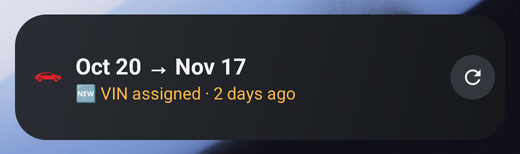
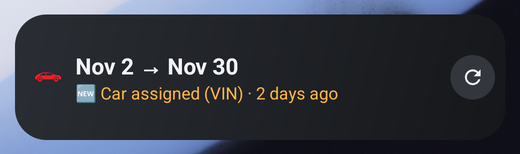
Clearer widget: progress segments, plain-words labels, light/dark theme
- Progress line is four segments (done / current / to come) plus the
  current step in words ("Step 3/4 · Waiting for the appointment").
- "What's new" banner without jargon ("Car assigned (VIN)") and with the
  new value when the title alone says too little.
- Widget follows the phone's light/dark theme (colors in values/ and
  values-night/, text colors set from code carry both variants).
- Demo: "state" and "news" extras to reach each widget state.
- Refreshed widget screenshots, changelog entry for 0.0.6.

Changed region(s): [[0.1846, 0.5455, 0.6769, 0.6753], [0.1231, 0.3636, 0.4923, 0.4935]]

diff --git a/app/src/main/java/app/deliveryday/OrderWidget.kt b/app/src/main/java/app/deliveryday/OrderWidget.kt
@@ -6,15 +6,12 @@ import android.appwidget.AppWidgetProvider
 import android.content.ComponentName
 import android.content.Context
 import android.content.Intent
-import android.graphics.Typeface
+import android.content.res.Configuration
 import android.os.Build
 import android.os.Bundle
 import android.util.SizeF
-import android.text.SpannableStringBuilder
-import android.text.Spanned
-import android.text.style.ForegroundColorSpan
-import android.text.style.StyleSpan
 import android.widget.RemoteViews
+import androidx.annotation.ColorRes
 import androidx.work.ExistingWorkPolicy
 import androidx.work.OneTimeWorkRequestBuilder
 import androidx.work.OutOfQuotaPolicy
@@ -83,25 +80,45 @@ class OrderWidget : AppWidgetProvider() {
             }
         }
 
-        /** "✓ Ordered › Car assigned › Appt. › Delivered": done in green, current step in bold white. */
-        private fun steps(ctx: Context, o: OrderInfo): CharSequence {
-            val labels = listOf(R.string.step_ordered, R.string.step_assigned, R.string.step_appointment_short, R.string.step_delivered)
+        private val SEGMENTS = intArrayOf(R.id.w_seg1, R.id.w_seg2, R.id.w_seg3, R.id.w_seg4)
+
+        /** Four segments (done in green, current in amber, to come in grey) and "Step 2/4 · Car assigned". */
+        private fun steps(ctx: Context, v: RemoteViews, o: OrderInfo) {
+            // What the current step means: what we wait for, or what we have.
+            val labels = listOf(R.string.step_ordered, R.string.w_wait_assigned, R.string.w_wait_appointment, R.string.w_wait_delivery)
             val done = simpleSteps(o)
             val current = done.indexOfFirst { !it }
-            val sb = SpannableStringBuilder()
-            labels.forEachIndexed { i, id ->
-                if (i > 0) sb.append(" › ")
-                val start = sb.length
-                sb.append(if (done[i]) "✓ ${ctx.getString(id)}" else ctx.getString(id))
-                val color = when {
-                    done[i] -> ctx.getColor(R.color.green)
-                    i == current -> ctx.getColor(R.color.text)
-                    else -> ctx.getColor(R.color.muted)
-                }
-                sb.setSpan(ForegroundColorSpan(color), start, sb.length, Spanned.SPAN_EXCLUSIVE_EXCLUSIVE)
-                if (i == current) sb.setSpan(StyleSpan(Typeface.BOLD), start, sb.length, Spanned.SPAN_EXCLUSIVE_EXCLUSIVE)
+            SEGMENTS.forEachIndexed { i, id ->
+                v.setInt(id, "setBackgroundResource", when {
+                    done[i] -> R.drawable.widget_seg_done
+                    i == current -> R.drawable.widget_seg_current
+                    else -> R.drawable.widget_seg_todo
+                })
             }
-            return sb
+            if (current < 0) {
+                v.setTextViewText(R.id.w_steps, "✓ ${ctx.getString(R.string.step_delivered)}")
+                setTextColor(ctx, v, R.id.w_steps, R.color.green)
+            } else {
+                v.setTextViewText(R.id.w_steps, ctx.getString(R.string.w_step, current + 1, labels.size, ctx.getString(labels[current])))
+                setTextColor(ctx, v, R.id.w_steps, R.color.text)
+            }
+        }
+
+        /**
+         * Text color that follows the phone's light/dark theme. Layouts and drawables do it by
+         * themselves; a color set from here would stay as is when the theme changes (Android 12+
+         * takes both and the launcher picks).
+         */
+        private fun setTextColor(ctx: Context, v: RemoteViews, id: Int, @ColorRes res: Int) {
+            if (Build.VERSION.SDK_INT >= 31) v.setColorInt(id, "setTextColor", color(ctx, res, night = false), color(ctx, res, night = true))
+            else v.setTextColor(id, ctx.getColor(res))
+        }
+
+        private fun color(ctx: Context, @ColorRes res: Int, night: Boolean): Int {
+            val config = Configuration(ctx.resources.configuration)
+            config.uiMode = (config.uiMode and Configuration.UI_MODE_NIGHT_MASK.inv()) or
+                if (night) Configuration.UI_MODE_NIGHT_YES else Configuration.UI_MODE_NIGHT_NO
+            return ctx.createConfigurationContext(config).getColor(res)
         }
 
         private fun build(ctx: Context, refreshing: Boolean, small: Boolean): RemoteViews {
@@ -128,6 +145,7 @@ class OrderWidget : AppWidgetProvider() {
                     v.setTextViewText(R.id.w_model, ctx.getString(R.string.app_name))
                     v.setTextViewText(R.id.w_news, "")
                     v.setTextViewText(R.id.w_steps, "")
+                    SEGMENTS.forEach { v.setInt(it, "setBackgroundResource", R.drawable.widget_seg_todo) }
                 }
             } else if (small) {
                 v.setTextViewText(R.id.w_window,
@@ -149,15 +167,15 @@ class OrderWidget : AppWidgetProvider() {
                 if (freshNews != null) {
                     v.setTextViewText(R.id.w_news, freshNews)
                     v.setInt(R.id.w_news, "setBackgroundResource", R.drawable.widget_news_fresh)
-                    v.setTextColor(R.id.w_news, ctx.getColor(R.color.text))
+                    setTextColor(ctx, v, R.id.w_news, R.color.text)
                 } else {
                     val since = newsDay ?: o.orderedOn
                     v.setTextViewText(R.id.w_news, since?.let { ctx.getString(R.string.w_nothing_since, Fmt.dayMonth(it)) } ?: ctx.getString(R.string.news_none))
                     v.setInt(R.id.w_news, "setBackgroundResource", R.drawable.widget_news_quiet)
-                    v.setTextColor(R.id.w_news, ctx.getColor(R.color.muted))
+                    setTextColor(ctx, v, R.id.w_news, R.color.muted)
                 }
                 // Where are we?
-                v.setTextViewText(R.id.w_steps, steps(ctx, o))
+                steps(ctx, v, o)
             }
             val open = PendingIntent.getActivity(ctx, 0, Intent(ctx, MainActivity::class.java), PendingIntent.FLAG_IMMUTABLE)
             v.setOnClickPendingIntent(R.id.widget_root, open)

diff --git a/app/src/debug/java/app/deliveryday/DemoActivity.kt b/app/src/debug/java/app/deliveryday/DemoActivity.kt
@@ -53,7 +53,13 @@ class DemoActivity : Activity() {
         val order = JSONObject().put("referenceNumber", "RN-DEMO-0001").put("orderStatus", "BOOKED")
             .put("modelCode", "my").put("countryCode", "FR").put("vin", "DEMO-VIN-12345678")
             .put("mktOptions", "APBS,IBB6,PPSB,SC04,MDLY,WY19P,MTY85,STY5B,CPF0,TW01")
-        val snapshot = JSONObject().put("RN-DEMO-0001", JSONObject().put("order", order)
+        // "state=assigned|appointment|delivered" picks the step reached (default: car assigned, no appointment yet).
+        val state = intent.getStringExtra("state")
+        if (state == "assigned") order.remove("vin")
+        if (state == "appointment" || state == "delivered")
+            tasks.getJSONObject("scheduling").put("isValidAppointment", true)
+        if (state == "delivered") order.put("orderStatus", "DELIVERED")
+        val snapshot = JSONObject().put("RN-DEMO-0001",JSONObject().put("order", order)
             .put("tasks", JSONObject().put("tasks", tasks)).put("lang", Locale.getDefault().language))
 
         Store(this).apply {
@@ -64,7 +70,16 @@ class DemoActivity : Activity() {
             lastCheck = now - 12 * 60_000
             tradeInEstimate = 8500.0
             tradeInBaseline = 41990.0
-            lastNews = getString(R.string.ch_vin_assigned)
+            // Banner computed like a real check would; "news=window" for a delivery window change.
+            val earlier = JSONObject(snapshot.toString())
+            val earlierOrder = earlier.getJSONObject("RN-DEMO-0001")
+            if (intent.getStringExtra("news") == "window")
+                earlierOrder.getJSONObject("tasks").getJSONObject("tasks").getJSONObject("scheduling")
+                    .put("deliveryWindowDisplay", "${today.plusDays(28).format(windowFormat)} - ${today.plusDays(55).format(windowFormat)}"
+                        .replaceFirstChar(Char::titlecase))
+            else earlierOrder.getJSONObject("order").remove("vin")
+            lastNews = Changes.summarize(earlier.toString(), snapshot.toString())
+                .takeIf { it.changes.isNotEmpty() }?.let { ChangeText.headline(this@DemoActivity, it) }
             lastNewsAt = now - 2 * day
             addHistory(listOf(getString(R.string.task_financing) to getString(R.string.ch_task_done)), now - 20 * day)
             addHistory(listOf(getString(R.string.ch_window) to (if (fr) "5 nov. – 2 déc. → " else "Nov 5 – Dec 2 → ") +

diff --git a/app/src/main/java/app/deliveryday/Changes.kt b/app/src/main/java/app/deliveryday/Changes.kt
@@ -126,9 +126,30 @@ object ChangeText {
         if (s.important == 1) listOf(detail(ctx, s.changes[0]))
         else s.changes.map { ctx.getString(R.string.ch_line, titleWithEmoji(ctx, it), detail(ctx, it)) }
 
-    /** Short version for the widget banner: "VIN assigned", "VIN assigned + 2 more". */
+    /**
+     * Plain-words title for the widget banner: no "VIN" jargon, and the new value when the title
+     * alone says too little ("Delivery window: Nov 5 – Dec 2"). The detail is only worth the room
+     * when the change is alone.
+     */
+    private fun headlineTitle(ctx: Context, c: Changes.Change, withDetail: Boolean): String {
+        val n = c.after
+        return when (c.kind) {
+            Changes.Kind.VIN_ASSIGNED -> ctx.getString(R.string.wh_car_assigned)
+            Changes.Kind.VIN_CHANGED -> ctx.getString(R.string.wh_car_changed)
+            else -> if (!withDetail) title(ctx, c) else when (c.kind) {
+                Changes.Kind.STATUS -> ctx.getString(R.string.wh_status, Labels.status(ctx, n.statusCode))
+                Changes.Kind.WINDOW -> ctx.getString(R.string.wh_window)
+                Changes.Kind.PLACE -> ctx.getString(R.string.wh_place, n.deliveryPlace ?: "—")
+                Changes.Kind.TRADE_IN_STATUS -> ctx.getString(R.string.wh_trade_in, Labels.tradeInStatus(ctx, n.tradeInStatusCode))
+                Changes.Kind.TASK_DONE, Changes.Kind.TASK_TODO -> ctx.getString(R.string.ch_line, title(ctx, c), detail(ctx, c))
+                else -> title(ctx, c)
+            }
+        }
+    }
+
+    /** Short version for the widget banner: "Car assigned", "Car assigned + 2 more". */
     fun headline(ctx: Context, s: Changes.Summary): String {
-        val first = title(ctx, s.changes[0])
+        val first = headlineTitle(ctx, s.changes[0], withDetail = s.important == 1)
         return if (s.important == 1) first
         else ctx.resources.getQuantityString(R.plurals.headline_more, s.important - 1, first, s.important - 1)
     }

diff --git a/CHANGELOG.md b/CHANGELOG.md
@@ -2,6 +2,12 @@
 
 The section of the tagged version is used as the release notes (see `RELEASING.md`).
 
+## 0.0.6
+
+- Widget: the progress line is now four segments (done, current, to come) with the current step in plain words ("Step 3/4 · Waiting for the appointment"), instead of a single line of text that could be cut off.
+- Widget: follows the phone's light/dark theme (light background in light mode), with the same colors as the app.
+- Widget: the "what's new" banner no longer uses jargon ("Car assigned (VIN)" instead of "VIN assigned") and shows the new value when the title alone says too little (status, delivery place, trade-in, completed task).
+
 ## 0.0.5
 
 - The app version is shown on the main screen and on the sign-in screen.
